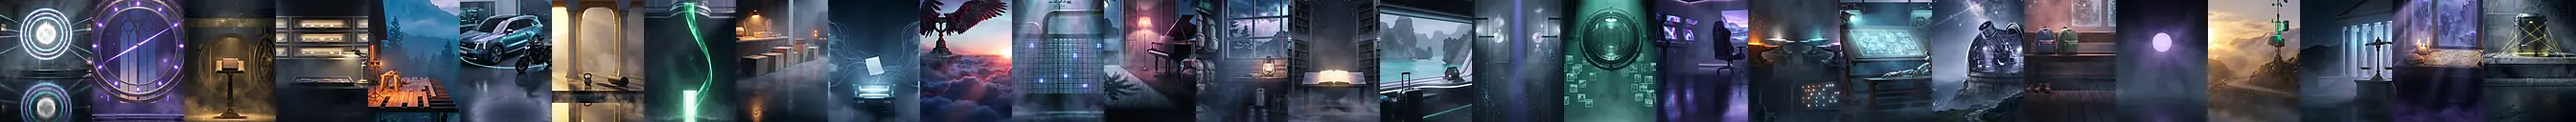
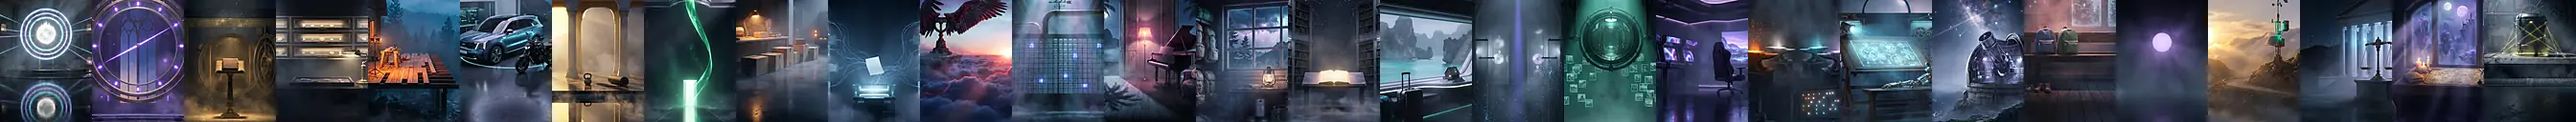
d64: pillar headers crop on their subject (11 measured by Gemini), 32 high-priority accessibility fixes
Claude-Session: https://claude.ai/code/session_01LGUjV4xgKz72hfHsr21mJf

diff --git a/deck/deck.css b/deck/deck.css
@@ -58,11 +58,12 @@ html.no-sky #sky { display: none; }
 body::before { content: ""; position: fixed; inset: 0; z-index: 1; pointer-events: none;                        /* the canopy tint: keeps every sky readable */
   background: radial-gradient(120% 70% at 50% 0%, rgba(4, 7, 16, .0), rgba(4, 7, 16, .28) 70%), linear-gradient(180deg, rgba(4, 6, 14, .34) 0%, rgba(4, 6, 14, .12) 34%, rgba(4, 6, 14, .5) 100%); }
 html[data-day="day"] body::before { background: linear-gradient(180deg, rgba(4, 8, 22, .34) 0%, rgba(4, 8, 22, .16) 40%, rgba(4, 8, 20, .5) 100%); }
+html[data-day="day"] .dock-bar, html[data-day="dawn"] .dock-bar, html[data-day="dusk"] .dock-bar { background: rgba(8, 12, 24, .86); }   /* 1.4.3: the dock words stay readable over a bright sky (fix queue #5) */
 body::after { content: ""; position: fixed; inset: 0; z-index: 1; pointer-events: none; opacity: .5;           /* a faint scan grid: glass, not air */
   background: repeating-linear-gradient(180deg, rgba(255, 255, 255, .018) 0 1px, transparent 1px 4px); mix-blend-mode: overlay; }
 
 #deck { position: fixed; inset: 0; z-index: 2; }
-#view { position: absolute; inset: 0; overflow-y: auto; overflow-x: hidden; overscroll-behavior: contain; padding: calc(var(--rail-h) + 6px) 0 calc(var(--dock-h) + 22px); outline: none; view-transition-name: view;
+#view { position: absolute; inset: 0; overflow-y: auto; overflow-x: hidden; overscroll-behavior: contain; padding: calc(var(--rail-h) + 6px) 0 calc(var(--dock-h) + 22px); outline: none; scroll-padding: calc(var(--rail-h) + 12px) 0 calc(var(--dock-h) + 32px); view-transition-name: view;
   -webkit-mask-image: linear-gradient(180deg, transparent calc(var(--rail-h) - 22px), #000 calc(var(--rail-h) + 8px), #000 calc(100% - var(--dock-h) - 6px), rgba(0, 0, 0, .25) calc(100% - 24px), transparent);
   mask-image: linear-gradient(180deg, transparent calc(var(--rail-h) - 22px), #000 calc(var(--rail-h) + 8px), #000 calc(100% - var(--dock-h) - 6px), rgba(0, 0, 0, .25) calc(100% - 24px), transparent); }
 .view-inner { width: 100%; max-width: 580px; margin: 0 auto; padding: 0 14px; display: grid; gap: 14px; align-content: start; grid-template-columns: minmax(0, 1fr); }
@@ -88,7 +89,7 @@ body[data-cap="picture"] .brand-time { display: none; }
 /* ------------------------------------------------------------------ dock ------------------------------------------------------------------ */
 .dock { position: absolute; left: 0; right: 0; bottom: 0; z-index: 30; display: flex; justify-content: center; padding: 0 12px calc(12px + env(safe-area-inset-bottom, 0px)); pointer-events: none; }
 .dock-bar { pointer-events: auto; display: flex; align-items: center; gap: 2px; padding: 6px; border-radius: 32px; background: rgba(10, 14, 26, .7); -webkit-backdrop-filter: blur(22px) saturate(1.5); backdrop-filter: blur(22px) saturate(1.5); border: 1px solid var(--line-2); box-shadow: 0 22px 50px -14px rgba(0, 0, 0, .85), inset 0 1px 0 rgba(255, 255, 255, .09); }
-.dock-item { position: relative; width: 62px; height: 54px; display: grid; justify-items: center; align-content: center; gap: 3px; border-radius: 24px; color: var(--ink-3); font-size: 10.5px; letter-spacing: .06em; transition: color .2s, background .2s; }
+.dock-item { position: relative; width: 62px; height: 54px; display: grid; justify-items: center; align-content: center; gap: 3px; border-radius: 24px; color: var(--ink-2); font-size: 10.5px; letter-spacing: .06em; transition: color .2s, background .2s; }
 .dock-item:hover { color: var(--ink); }
 .dock-item.on { color: #fff; background: rgba(255, 255, 255, .07); }
 .dock-item.on::after { content: ""; position: absolute; bottom: 4px; width: 16px; height: 2px; border-radius: 2px; background: var(--cyan); box-shadow: 0 0 10px var(--cyan), 0 0 2px #fff; }
@@ -300,10 +301,10 @@ input[type="text"], input[type="search"], input[type="number"], input[type="date
 textarea { height: auto; min-height: 84px; padding: 12px 14px; resize: vertical; }
 select { background-image: linear-gradient(45deg, transparent 50%, var(--ink-2) 50%), linear-gradient(135deg, var(--ink-2) 50%, transparent 50%); background-position: calc(100% - 20px) 21px, calc(100% - 15px) 21px; background-size: 5px 5px; background-repeat: no-repeat; padding-right: 36px; }
 select option { background: #111a30; color: var(--ink); }
-input::placeholder, textarea::placeholder { color: rgba(222, 232, 250, .42); }
+input::placeholder, textarea::placeholder { color: rgba(222, 232, 250, .65); }   /* 1.4.3 (fix queue #6) */
 input:focus, select:focus, textarea:focus { border-color: var(--ice); box-shadow: 0 0 0 3px rgba(143, 208, 255, .2); background: rgba(255, 255, 255, .09); }
 input[type="range"] { width: 100%; height: 34px; accent-color: var(--mint); }
-input[type="checkbox"] { width: 22px; height: 22px; accent-color: var(--mint); flex: none; }
+input[type="checkbox"] { width: 24px; height: 24px; accent-color: var(--mint); flex: none; }
 .check { display: flex; align-items: center; gap: 12px; min-height: 44px; }
 .seg { display: inline-flex; max-width: 100%; padding: 3px; border-radius: 999px; background: rgba(255, 255, 255, .06); border: 1px solid var(--line); overflow-x: auto; scrollbar-width: none; }
 .seg::-webkit-scrollbar, .tabs::-webkit-scrollbar { display: none; }

diff --git a/pillars/athenaeum/app.css b/pillars/athenaeum/app.css
@@ -61,13 +61,13 @@ span.ath-chip { cursor: default; }
 .ath-time { position: fixed; left: 12px; right: 82px; bottom: calc(98px + var(--safe-b)); z-index: 6; display: grid; grid-template-columns: 38px minmax(0, 1fr); grid-template-rows: auto auto; column-gap: 10px; align-items: center; padding: 8px 14px 8px 8px; border: 1px solid var(--hair); border-radius: 22px; background: rgba(8, 10, 22, .62); -webkit-backdrop-filter: blur(14px); backdrop-filter: blur(14px); transition: opacity .3s, translate .3s; }
 .ath-play { grid-row: 1 / 3; width: 38px; height: 38px; display: grid; place-items: center; border: 0; border-radius: 50%; background: linear-gradient(160deg, #ffe7ad, var(--gold)); color: #1a1204; cursor: pointer; box-shadow: 0 0 18px rgba(255, 197, 82, .4); }
 .ath-play svg { fill: currentColor; stroke: none; translate: 1px 0; } .ath-play.on { background: #fff; animation: ath-beacon 1.2s ease-in-out infinite; }
-.ath-track { position: relative; height: 24px; }
+.ath-track { position: relative; height: 28px; }
 .ath-ticks { position: absolute; left: 9px; right: 9px; top: 0; height: 7px; } .ath-ticks i { position: absolute; top: 3px; width: 1px; height: 4px; background: rgba(255, 255, 255, .34); } .ath-ticks i.s { top: 0; height: 7px; width: 1.5px; background: var(--gold); box-shadow: 0 0 6px var(--gold); }
-.ath-track input { position: absolute; left: 0; right: 0; bottom: 0; width: 100%; height: 18px; margin: 0; background: none; -webkit-appearance: none; appearance: none; cursor: pointer; --p: 100%; }
+.ath-track input { position: absolute; left: 0; right: 0; bottom: 0; width: 100%; height: 24px; margin: 0; background: none; -webkit-appearance: none; appearance: none; cursor: pointer; --p: 100%; }
 .ath-track input::-webkit-slider-runnable-track { height: 3px; border-radius: 2px; background: linear-gradient(90deg, var(--gold) var(--p), rgba(255, 255, 255, .18) var(--p)); }
 .ath-track input::-moz-range-track { height: 3px; border-radius: 2px; background: linear-gradient(90deg, var(--gold) var(--p), rgba(255, 255, 255, .18) var(--p)); }
-.ath-track input::-webkit-slider-thumb { -webkit-appearance: none; width: 18px; height: 18px; margin-top: -7.5px; border-radius: 50%; border: 0; background: #fff; box-shadow: 0 0 0 4px rgba(255, 197, 82, .25), 0 0 16px var(--gold); }
-.ath-track input::-moz-range-thumb { width: 18px; height: 18px; border-radius: 50%; border: 0; background: #fff; box-shadow: 0 0 0 4px rgba(255, 197, 82, .25), 0 0 16px var(--gold); }
+.ath-track input::-webkit-slider-thumb { -webkit-appearance: none; width: 24px; height: 24px; margin-top: -10.5px; border-radius: 50%; border: 0; background: #fff; box-shadow: 0 0 0 4px rgba(255, 197, 82, .25), 0 0 16px var(--gold); }
+.ath-track input::-moz-range-thumb { width: 24px; height: 24px; border-radius: 50%; border: 0; background: #fff; box-shadow: 0 0 0 4px rgba(255, 197, 82, .25), 0 0 16px var(--gold); }
 .ath-when { grid-column: 2; font: 500 11.5px/1.2 var(--sans); letter-spacing: .06em; color: #e6ebf7; font-variant-numeric: tabular-nums; }
 .ath-spark { position: fixed; right: 14px; bottom: calc(100px + var(--safe-b)); z-index: 6; width: 54px; height: 54px; display: grid; place-items: center; border: 0; border-radius: 50%; color: #1a1204; background: radial-gradient(circle at 35% 30%, #fff3cf, var(--gold) 55%, #c98a1c); box-shadow: 0 0 0 5px rgba(255, 197, 82, .14), 0 0 30px rgba(255, 197, 82, .5); cursor: pointer; transition: opacity .3s, translate .3s, scale .2s; }
 .ath-spark:active { scale: .92; }

diff --git a/pillars/forge/app.css b/pillars/forge/app.css
@@ -3,6 +3,7 @@
 .row-k { font-size: 12px; letter-spacing: .12em; text-transform: uppercase; color: var(--muted); }
 .sub { font-size: 13px; color: var(--muted); }
 .pill { display: inline-block; padding: 1px 8px; border: 1px solid var(--line-strong); border-radius: 999px; font-size: 11px; letter-spacing: .08em; text-transform: uppercase; color: var(--muted); vertical-align: 2px; }
+button.pill, a.pill, .pill[role="button"] { min-height: 24px; min-width: 24px; display: inline-flex; align-items: center; padding: 3px 10px; cursor: pointer; font: inherit; font-size: 11px; }   /* 2.5.8 (fix queue #11) */
 .pill.hot { border-color: var(--accent); color: #fff; background: color-mix(in srgb, var(--accent) 22%, transparent); box-shadow: 0 0 12px -4px var(--accent); }
 
 /* The wall plate: the floor's totals, computed at render from the ledger and the queues. */
@@ -56,7 +57,7 @@ body[data-pillar="forge"] .arow { position: relative; padding-left: 14px; }
 .lnum { display: grid; justify-items: end; } .lnum b { font-size: 22px; font-variant-numeric: tabular-nums; line-height: 1; } .lnum small { font-size: 10.5px; color: var(--muted); white-space: nowrap; }
 .lrow.low .lnum b, .lrow.low .lnum small { color: var(--bad); }
 .seg { display: flex; flex-wrap: wrap; gap: 6px; margin: 0 0 8px; }
-.segb { padding: 6px 11px; border-radius: 999px; border: 1px solid var(--line-strong); background: rgba(255,255,255,.03); color: var(--muted); font: inherit; font-size: 12px; cursor: pointer; }
+.segb { min-height: 32px; min-width: 32px; padding: 6px 11px; border-radius: 999px; border: 1px solid var(--line-strong); background: rgba(255,255,255,.03); color: var(--muted); font: inherit; font-size: 12px; cursor: pointer; }
 .segb.on { color: #fff; border-color: var(--accent); background: color-mix(in srgb, var(--accent) 22%, transparent); }
 .frow2 { display: grid; grid-template-columns: minmax(0, 1fr) minmax(0, 1.2fr); gap: 8px; margin: 2px 0 10px; }
 .fsel, .fq { width: 100%; min-height: 38px; padding: 6px 10px; border-radius: 10px; border: 1px solid var(--line-strong); background: rgba(255,255,255,.04); color: var(--ink); font: inherit; font-size: 13px; }

diff --git a/pillars/selling/app.js b/pillars/selling/app.js
@@ -56,7 +56,7 @@
 
       <div class="glass span-6"><h2>FB Marketplace "Shipping-Only" Copy Generator</h2>
         <p class="sub">Click "FB Copy" on any item below or preview here to copy clean buyer-ready text.</p>
-        <textarea id="s-copy-box" rows="6" readonly style="width:100%;margin-bottom:8px"></textarea>
+        <textarea id="s-copy-box" rows="6" readonly aria-label="Listing text for Facebook Marketplace" style="width:100%;margin-bottom:8px"></textarea>
         <div class="row-actions"><button class="btn small" id="s-copy-btn" type="button">Copy Listing Text</button></div>
       </div>
 
@@ -169,10 +169,10 @@
       supEl.append(h("div.kv", null,
         h("span", null, h("b", { className: low ? "down" : "" }, sp.name), low ? " [LOW STOCK]" : ""),
         h("span.row-actions", null,
-          h("button.btn.quiet.small", { type: "button", onclick: () => { S.update("supplies", sp.id, { qty: Math.max(0, (+sp.qty || 0) - 1) }); paint(); } }, "-1"),
+          h("button.btn.quiet.small", { type: "button", "aria-label": `One less ${sp.name}`, onclick: () => { S.update("supplies", sp.id, { qty: Math.max(0, (+sp.qty || 0) - 1) }); paint(); } }, "-1"),
           h("b", null, String(sp.qty)),
-          h("button.btn.quiet.small", { type: "button", onclick: () => { S.update("supplies", sp.id, { qty: (+sp.qty || 0) + 1 }); paint(); } }, "+1"),
-          h("button.btn.quiet.small", { type: "button", onclick: () => { S.remove("supplies", sp.id); paint(); } }, "×")
+          h("button.btn.quiet.small", { type: "button", "aria-label": `One more ${sp.name}`, onclick: () => { S.update("supplies", sp.id, { qty: (+sp.qty || 0) + 1 }); paint(); } }, "+1"),
+          h("button.btn.quiet.small", { type: "button", "aria-label": `Remove ${sp.name}`, onclick: () => { S.remove("supplies", sp.id); paint(); } }, h("span", { "aria-hidden": "true" }, "×"))
         )
       ));
     });

diff --git a/pillars/odyssey/app.css b/pillars/odyssey/app.css
@@ -48,7 +48,7 @@
 .journey{margin:8px 0 0}
 .arc{width:100%;height:auto;display:block}
 .arc-line{fill:none;stroke:var(--accent);stroke-width:1.6;stroke-dasharray:5 4}
-.arc-ghost{fill:none;stroke:color-mix(in srgb,var(--accent-2) 30%,transparent);stroke-width:1}
+.arc-ghost{fill:none;stroke:color-mix(in srgb,var(--accent-2) 48%,transparent);stroke-width:1}
 .arc-node{fill:var(--bg);stroke:var(--accent);stroke-width:1.6}
 .arc-code{fill:var(--ink);font-size:11px;font-weight:600;letter-spacing:.12em;font-family:var(--sans)}
 .arc-name{fill:var(--muted);font-size:9.5px;letter-spacing:.2em;font-family:var(--sans)}
@@ -56,7 +56,7 @@
 .tl-head{display:flex;justify-content:space-between;gap:8px;font-size:11px;letter-spacing:.18em;color:var(--muted);text-transform:uppercase;flex-wrap:wrap}
 .tl-mid{color:var(--accent)}
 .tl-track{display:flex;gap:2px;margin-top:7px}
-.tl-tick{flex:1;height:9px;border-radius:2px;background:color-mix(in srgb,var(--accent) 22%,transparent)}
+.tl-tick{flex:1;height:9px;border-radius:2px;background:color-mix(in srgb,var(--accent) 48%,transparent)}
 .tl-tick.end{background:var(--accent)}
 .legs{margin-top:10px;display:grid;gap:5px}
 .leg{display:flex;gap:12px;font-size:13.5px;align-items:baseline}
@@ -155,7 +155,7 @@
 .jr-th.on{opacity:1;box-shadow:0 0 0 2px var(--accent);transform:translateY(-2px)}
 .jr-th:hover{opacity:.9}
 .map-seg{transition:stroke-opacity .5s ease}
-.map-seg.todo{stroke-opacity:.18}
+.map-seg.todo{stroke-opacity:.5}
 .map-dot.has-ph{cursor:pointer}
 .map-dot.here{fill:var(--accent)}
 .map-here{fill:none;stroke:var(--accent);stroke-width:1.5;vector-effect:non-scaling-stroke;transform-box:fill-box;transform-origin:center;animation:jr-ping 1.8s ease-out infinite;pointer-events:none}

diff --git a/pillars/foundry/app.js b/pillars/foundry/app.js
@@ -80,7 +80,7 @@
   function card(p) {
     const parts = p.parts || [], tot = cost(p), have = parts.filter((x) => x.have).length;
     const step = (d) => h("button.btn.quiet.small", { type: "button", disabled: d < 0 ? p.stage <= 0 : p.stage >= STAGES.length - 1, onclick: () => { const s = p.stage + d; S.update("projects", p.id, { stage: s, log: log(p, (d > 0 ? "Moved to " : "Back to ") + STAGES[s]) }); if (window.PB && PB.events) PB.events.publish({ type: "build.stage", pillar: "foundry", ref: p.id, title: `${p.title}: ${STAGES[s]}` }); paint(); } }, d < 0 ? "◀" : "▶");
-    const pname = h("input", { placeholder: "Part or material", maxlength: "80" }), pcost = h("input", { type: "number", min: "0", step: "0.01", placeholder: "Cost $" }), next = h("input", { value: p.next || "", maxlength: "160", placeholder: "The one next step" });
+    const pname = h("input", { placeholder: "Part or material", maxlength: "80", "aria-label": "Part or material" }), pcost = h("input", { type: "number", min: "0", step: "0.01", placeholder: "Cost $", "aria-label": "Part cost in dollars" }), next = h("input", { value: p.next || "", maxlength: "160", placeholder: "The one next step" });
     return h("div", { "data-project-id": p.id, style: "padding:12px 0;border-bottom:1px solid rgba(255,255,255,.08)" },
       h("div.kv", null, h("span", null, h("b", null, p.title), h("br"), h("span.stat-s", null, `${STAGES[p.stage]} · started ${p.started}${p.ideaId ? " · from Athenaeum" : ""}`)), h("span", null, step(-1), " ", step(1))),
       renderLinkBadges(p),

diff --git a/kit/prometheus.css b/kit/prometheus.css
@@ -211,6 +211,8 @@ body::after { content: ""; position: fixed; left: 0; right: 0; top: 0; height: 1
 .btn:not(.quiet) { box-shadow: 0 0 0 1px color-mix(in srgb, var(--cyan) 55%, transparent), 0 10px 26px -14px color-mix(in srgb, var(--cyan) 70%, transparent), inset 0 1px 0 rgba(255, 255, 255, .75); }
 input:focus, select:focus, textarea:focus { border-color: var(--accent); box-shadow: 0 0 0 3px color-mix(in srgb, var(--accent) 24%, transparent); outline: none; }
 input:focus-visible, select:focus-visible, textarea:focus-visible { outline: 2px solid var(--accent); outline-offset: 1px; }   /* WCAG 2.4.7 / 1.4.11 (Gemini audit HUB-GEM-15 #9, #26) */
+a:focus-visible, button:focus-visible, summary:focus-visible, [role="tab"]:focus-visible, [tabindex]:focus-visible { outline: 2px solid var(--accent); outline-offset: 2px; }   /* 2.4.7 on links, buttons and tabs too (Gemini fix queue #3) */
+input[type="checkbox"], input[type="radio"] { width: 24px; height: 24px; min-width: 24px; flex: none; accent-color: var(--accent); }   /* 2.5.8: 24 px targets in every pillar (fix queue #1) */
 html { scroll-padding-bottom: 120px; }   /* 2.4.11: a focused control never hides under the dock (#11, #20) */
 .pk-sr { position: absolute; width: 1px; height: 1px; padding: 0; margin: -1px; overflow: hidden; clip: rect(0 0 0 0); white-space: nowrap; border: 0; }
 .chip.on { box-shadow: 0 0 14px -3px var(--accent); }

diff --git a/deck/app.js b/deck/app.js
@@ -120,8 +120,8 @@ document.addEventListener("visibilitychange", () => { if (!document.hidden) { ap
 /* ------------------------------------------------------------------ search and quick add (one input reaches anything) ------------------------------------------------------------------ */
 function openSearch() {
   if (sheetOpen()) return;
-  const input = h("input.search-input", { type: "search", placeholder: "A pillar, an idea, a date, or: dentist Tue 3pm", autocomplete: "off", autocapitalize: "off", spellcheck: "false", enterkeyhint: "go", autofocus: true, "aria-label": "Search the deck or add an event" });
-  const list = h("div.results", { role: "listbox", "aria-label": "Results" }); let items = []; let sel = 0;
+  const input = h("input.search-input", { type: "search", placeholder: "A pillar, an idea, a date, or: dentist Tue 3pm", autocomplete: "off", autocapitalize: "off", spellcheck: "false", enterkeyhint: "go", autofocus: true, "aria-label": "Search the deck or add an event", role: "combobox", "aria-autocomplete": "list", "aria-controls": "search-results", "aria-expanded": "true" });
+  const list = h("div.results", { id: "search-results", role: "listbox", "aria-label": "Results" }); let items = []; let sel = 0;
   const sh = sheet({ title: "Search · Add", tone: "search", body: h("div.stack", input, list) });
   const pick = (it) => {
     if (!it) return;

diff --git a/kit/world.js b/kit/world.js
@@ -43,7 +43,10 @@
     "}"].join("\n");
 
   /* where each painting's subject sits (0 = top, 1 = bottom), set by eye; a painting not listed uses where its lights gather */
-  var FOCUS = { kairos: 0.42, garage: 0.47, odyssey: 0.46, selling: 0.56, kin: 0.56, continuity: 0.6 };
+  var FOCUS = { kairos: 0.42, garage: 0.47, odyssey: 0.46, selling: 0.56, kin: 0.56, continuity: 0.6,
+    /* 2026-11-23: the 11 Gemini measured as missing their subject (hub_gemini_painting-focus), each checked by eye */
+    hearth: 0.55, money: 0.5, hermes: 0.46, piano: 0.42, bastion: 0.42, privacy: 0.38, games: 0.38, forge: 0.43, foundry: 0.42,
+    observatory: 0.42, mythos: 0.39 };
 
   function img(url) {
     return new Promise(function (res) { var im = new Image(); im.decoding = "async"; im.onload = function () { (im.decode ? im.decode().catch(function () {}) : Promise.resolve()).then(function () { res(im); }); }; im.onerror = function () { res(null); }; im.src = url; });

diff --git a/pillars/games/app.js b/pillars/games/app.js
@@ -126,8 +126,8 @@
   };
   paintNext();
   app.append(nextList);
-  const tIn = h("input", { type: "text", placeholder: "Add a game to your queue…", maxlength: "120" });
-  const nIn = h("input", { type: "text", placeholder: "Note (optional)", maxlength: "200" });
+  const tIn = h("input", { type: "text", placeholder: "Add a game to your queue…", maxlength: "120", "aria-label": "Add a game to your queue" });
+  const nIn = h("input", { type: "text", placeholder: "Note (optional)", maxlength: "200", "aria-label": "Note (optional)" });
   app.append(h("form.g-add", { onsubmit: (e) => { e.preventDefault(); const t = tIn.value.trim(); if (!t) return; const l = S.get("backlog") || []; l.push({ id: Date.now().toString(36), title: t, note: nIn.value.trim() }); S.set("backlog", l); tIn.value = ""; nIn.value = ""; paintNext(); toast("Added to your queue."); } }, tIn, nIn, h("button.btn.small", { type: "submit" }, "Add")));
 
   /* ---- provenance ---- */

diff --git a/pillars/apollo/app.js b/pillars/apollo/app.js
@@ -57,7 +57,7 @@
       <div class="glass span-6"><h2>Import Health Connect / Apple Health JSON</h2>
         <p class="sub">Paste or load JSON array/object of dated vitals ({date, steps, sleep, weight, calories, protein}). Merged safely on this device.</p>
         <form class="form" id="a-hc-form">
-          <label class="f wide"><textarea id="a-hc-json" rows="4" placeholder='[{"date":"2026-11-12","steps":9400,"sleep":7.8,"weight":181.5}]'></textarea></label>
+          <label class="f wide"><textarea id="a-hc-json" rows="4" aria-label="Health Connect JSON" placeholder='[{"date":"2026-11-12","steps":9400,"sleep":7.8,"weight":181.5}]'></textarea></label>
           <div class="wide row-actions"><button class="btn small" type="submit">Merge JSON</button><button class="btn quiet small" id="a-hc-file" type="button">Load JSON file</button></div>
         </form>
       </div>

diff --git a/pillars/hearth/app.css b/pillars/hearth/app.css
@@ -64,7 +64,7 @@ body[data-pillar="hearth"] { --accent: #f2b879; --accent-2: #9fd4e6; }
    checkboxes to full width, which floats the glyph mid-row; set the box beside
    the entry instead, with the meta line ruled beneath the title. ---- */
 #app .kv label, .phase-card .row-actions label { display: flex; flex-wrap: wrap; align-items: flex-start; gap: 4px 8px; }
-#app .kv label input[type="checkbox"], .phase-card .row-actions label input[type="checkbox"] { width: auto; flex: none; margin-top: 3px; }
+#app .kv label input[type="checkbox"], .phase-card .row-actions label input[type="checkbox"] { width: 24px; height: 24px; flex: none; margin-top: 0; }
 #app .kv label .stat-s { flex: 1 1 100%; padding-left: 25px; }
 
 /* ---- The deck ledger: numbered stages, done rows ruled off in green ---- */
